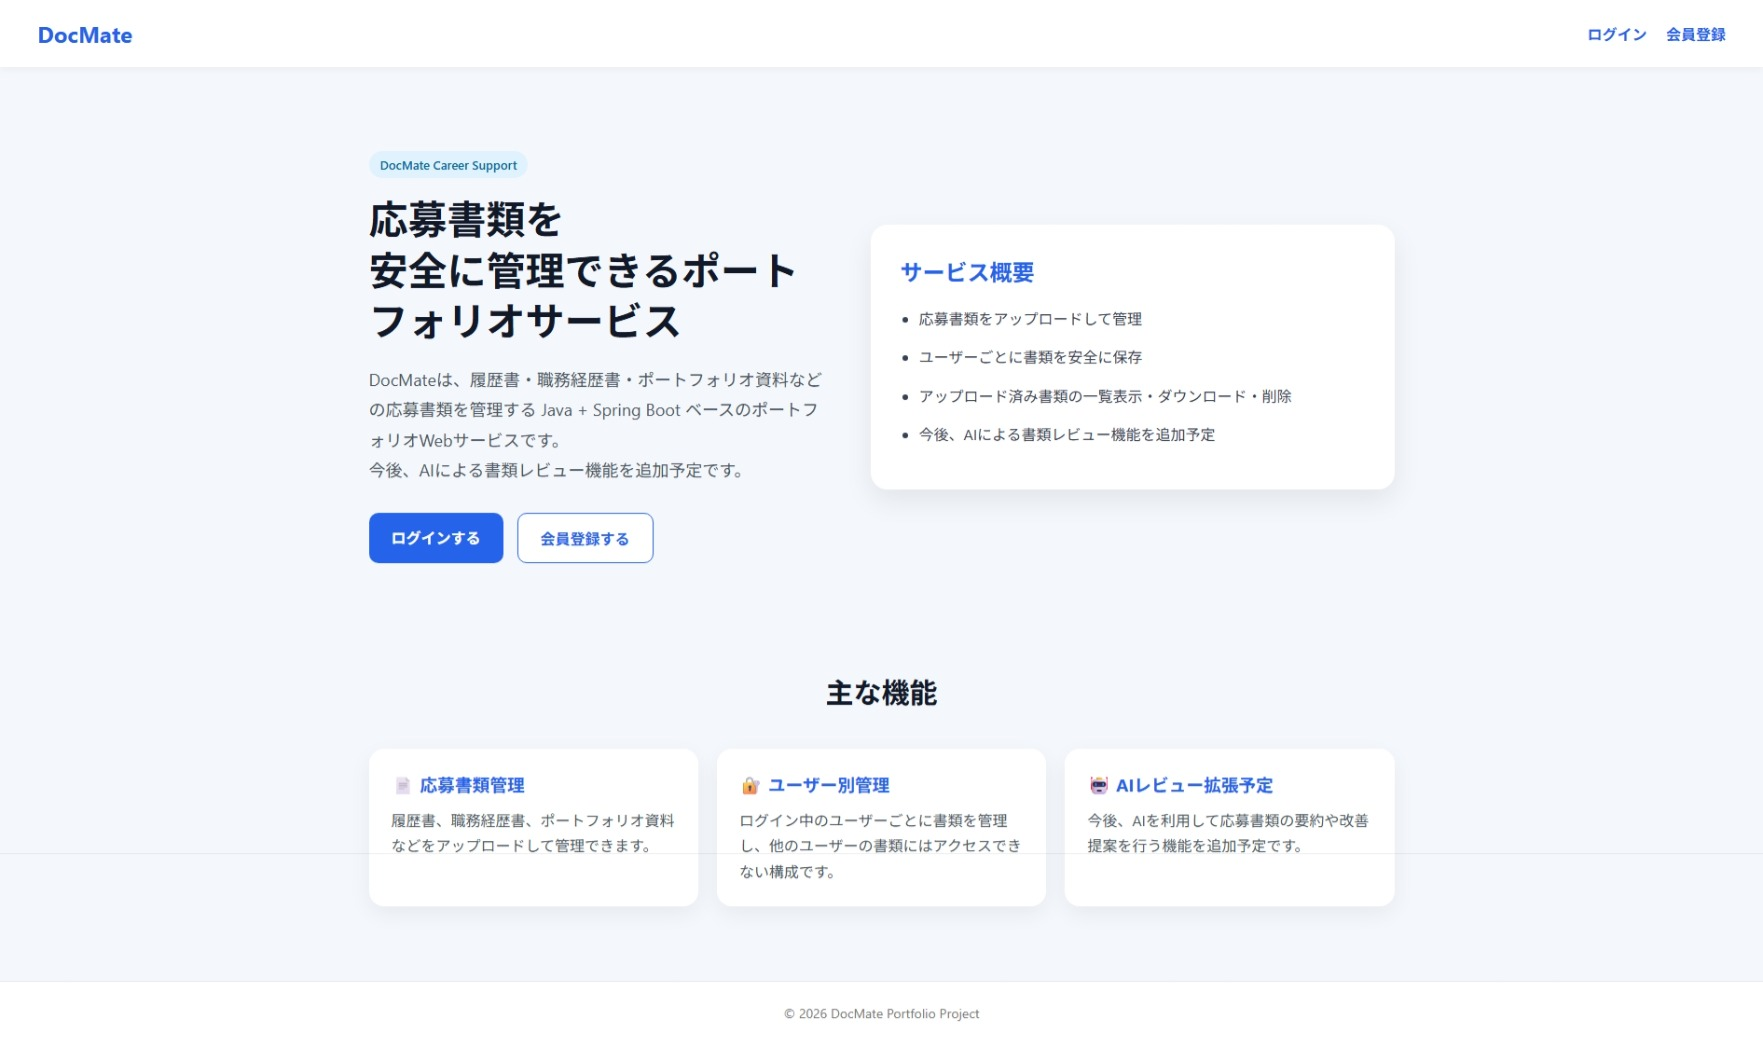
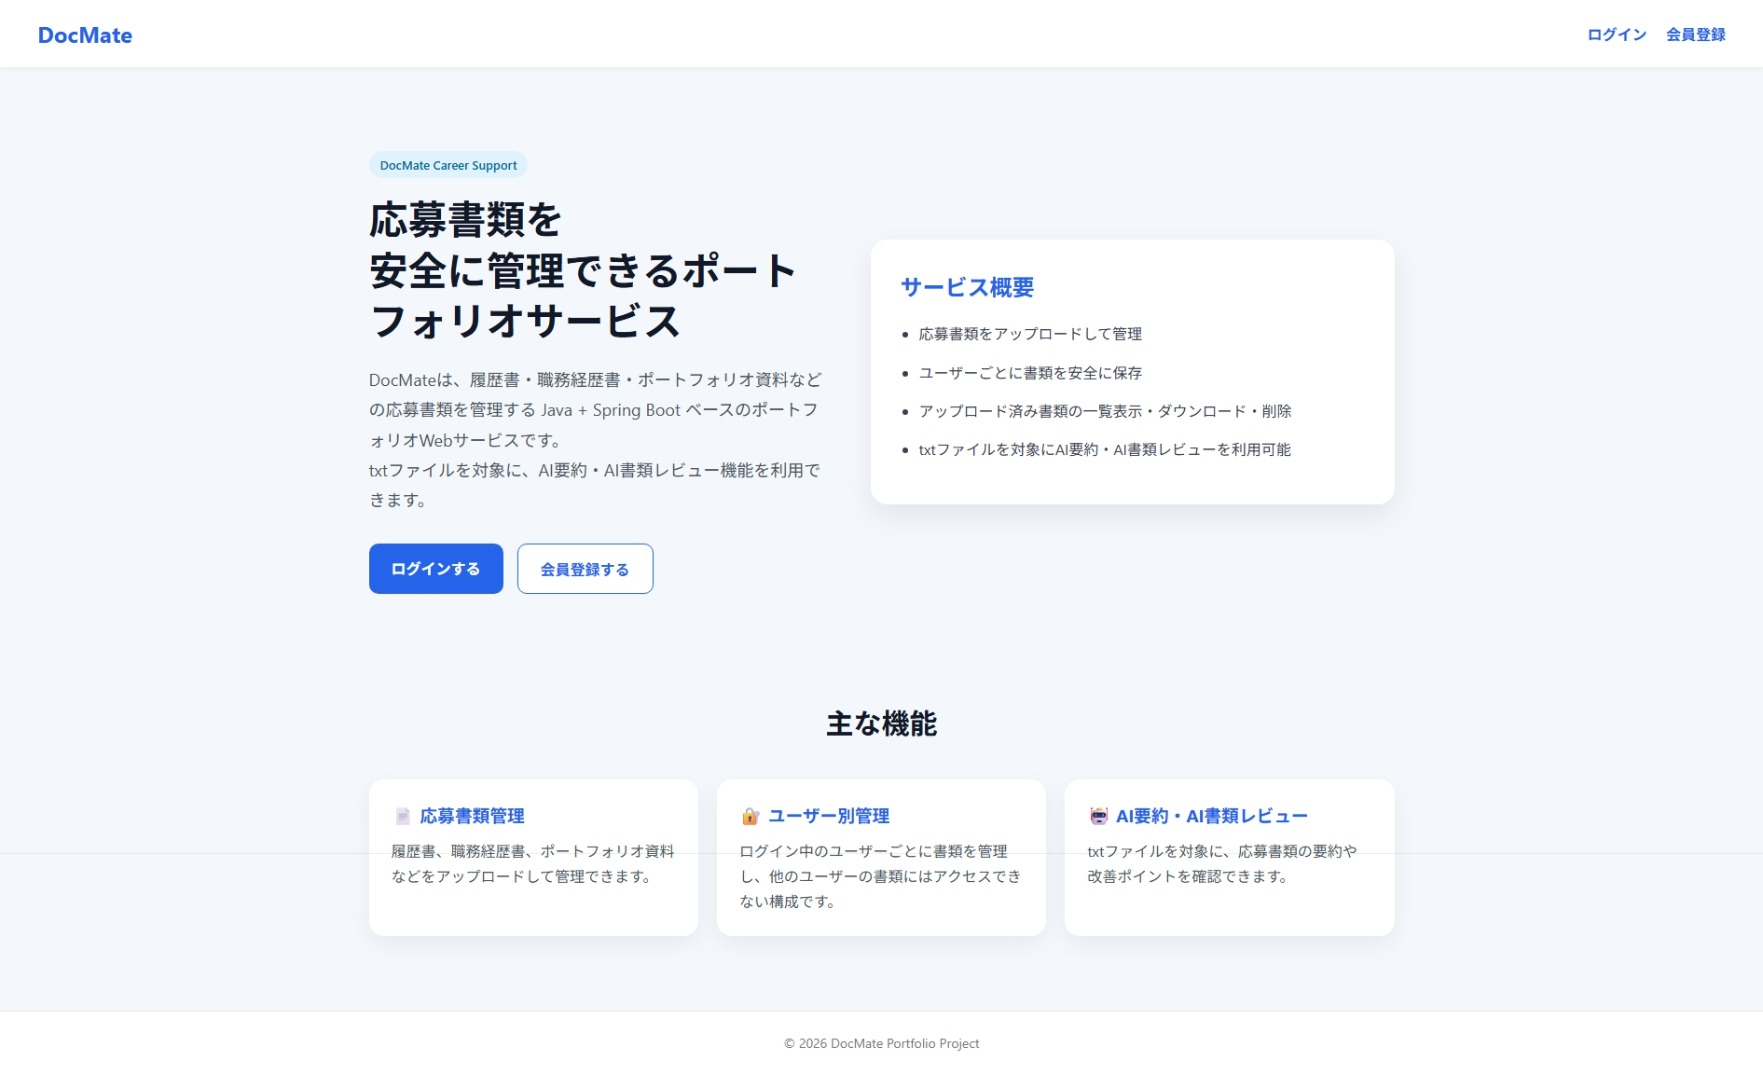
Add application screenshots to README

diff --git a/src/main/resources/templates/home.html b/src/main/resources/templates/home.html
@@ -237,10 +237,10 @@
 
         <h1>応募書類を<br>安全に管理できるポートフォリオサービス</h1>
 
-        <p>
+        <p class="description">
             DocMateは、履歴書・職務経歴書・ポートフォリオ資料などの応募書類を管理する
             Java + Spring Boot ベースのポートフォリオWebサービスです。<br>
-            今後、AIによる書類レビュー機能を追加予定です。
+            txtファイルを対象に、AI要約・AI書類レビュー機能を利用できます。
         </p>
 
         <div class="hero-buttons">
@@ -256,7 +256,7 @@
             <li>応募書類をアップロードして管理</li>
             <li>ユーザーごとに書類を安全に保存</li>
             <li>アップロード済み書類の一覧表示・ダウンロード・削除</li>
-            <li>今後、AIによる書類レビュー機能を追加予定</li>
+            <li>txtファイルを対象にAI要約・AI書類レビューを利用可能</li>
         </ul>
     </div>
 </section>
@@ -281,9 +281,9 @@
         </div>
 
         <div class="feature-card">
-            <h3>🤖 AIレビュー拡張予定</h3>
+            <h3>🤖 AI要約・AI書類レビュー</h3>
             <p>
-                今後、AIを利用して応募書類の要約や改善提案を行う機能を追加予定です。
+                txtファイルを対象に、応募書類の要約や改善ポイントを確認できます。
             </p>
         </div>
     </div>

diff --git a/src/main/resources/templates/document/upload.html b/src/main/resources/templates/document/upload.html
@@ -182,7 +182,7 @@
 
         <div class="note">
             ※ アップロードした書類はログイン中のユーザーごとに管理されます。<br>
-            今後、AIによる書類レビュー機能を追加予定です。
+            ※ txtファイルをアップロードすると、AI要約・AI書類レビュー機能を利用できます。
         </div>
     </div>
 </div>

diff --git a/README.md b/README.md
@@ -156,17 +156,52 @@ users
 
 ## 画面
 
-主な画面は以下です。
+## 画面
 
-- ホーム画面
-- 会員登録画面
-- ログイン画面
-- マイページ
-- 応募書類アップロード画面
-- 応募書類一覧画面
-- AI要約結果画面
-- AI書類レビュー結果画面
-- エラー画面
+### トップページ
+
+![トップページ](docs/images/home.png)
+
+DocMateの概要、主な機能、ログイン・会員登録への導線を表示します。
+
+### ログイン画面
+
+![ログイン画面](docs/images/login.png)
+
+登録済みユーザーがログインし、マイページへアクセスできます。
+
+### マイページ
+
+![マイページ](docs/images/mypage.png)
+
+応募書類アップロード、応募書類一覧、AI要約・AI書類レビュー機能へ移動できます。
+
+### 応募書類アップロード画面
+
+![応募書類アップロード画面](docs/images/upload.png)
+
+履歴書、職務経歴書、ポートフォリオ資料などの応募書類をアップロードできます。
+
+### 応募書類一覧画面
+
+![応募書類一覧画面](docs/images/documents.png)
+
+アップロード済み書類を一覧表示し、ダウンロード・削除・AI要約・AIレビューを実行できます。  
+MVP段階では、AI機能はtxtファイルのみ対応しています。
+
+### AI要約結果画面
+
+![AI要約結果画面](docs/images/ai-summary.png)
+
+txtファイルの内容を読み取り、AI要約結果を画面に表示します。  
+要約結果はDBに保存されます。
+
+### AI書類レビュー結果画面
+
+![AI書類レビュー結果画面](docs/images/ai-review.png)
+
+txtファイルの内容をもとに、書類の良い点・改善点・面接で使えるアピールポイントを表示します。  
+レビュー結果はDBに保存されます。
 
 ## 今後の改善予定
 
